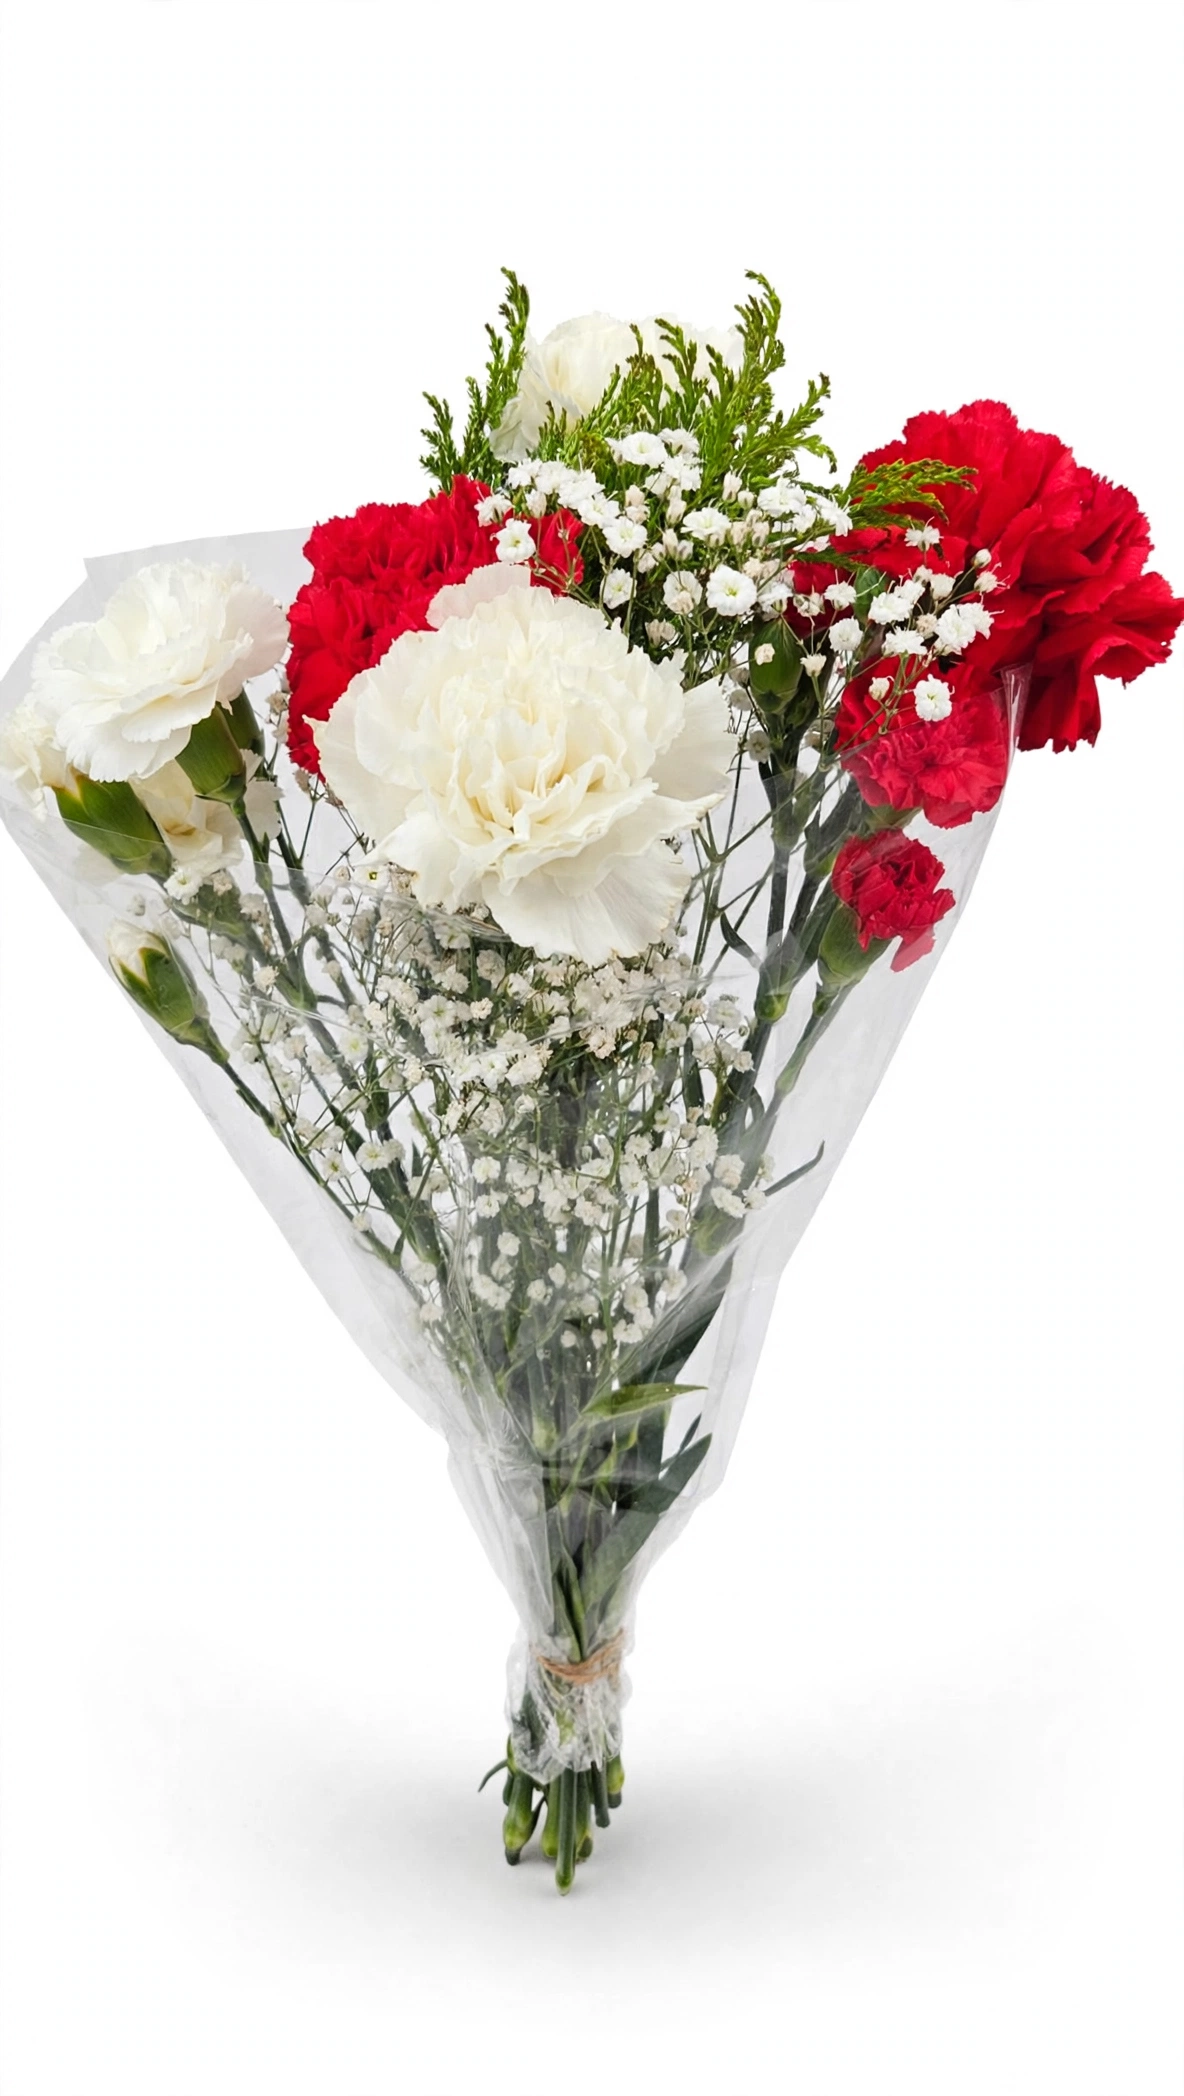
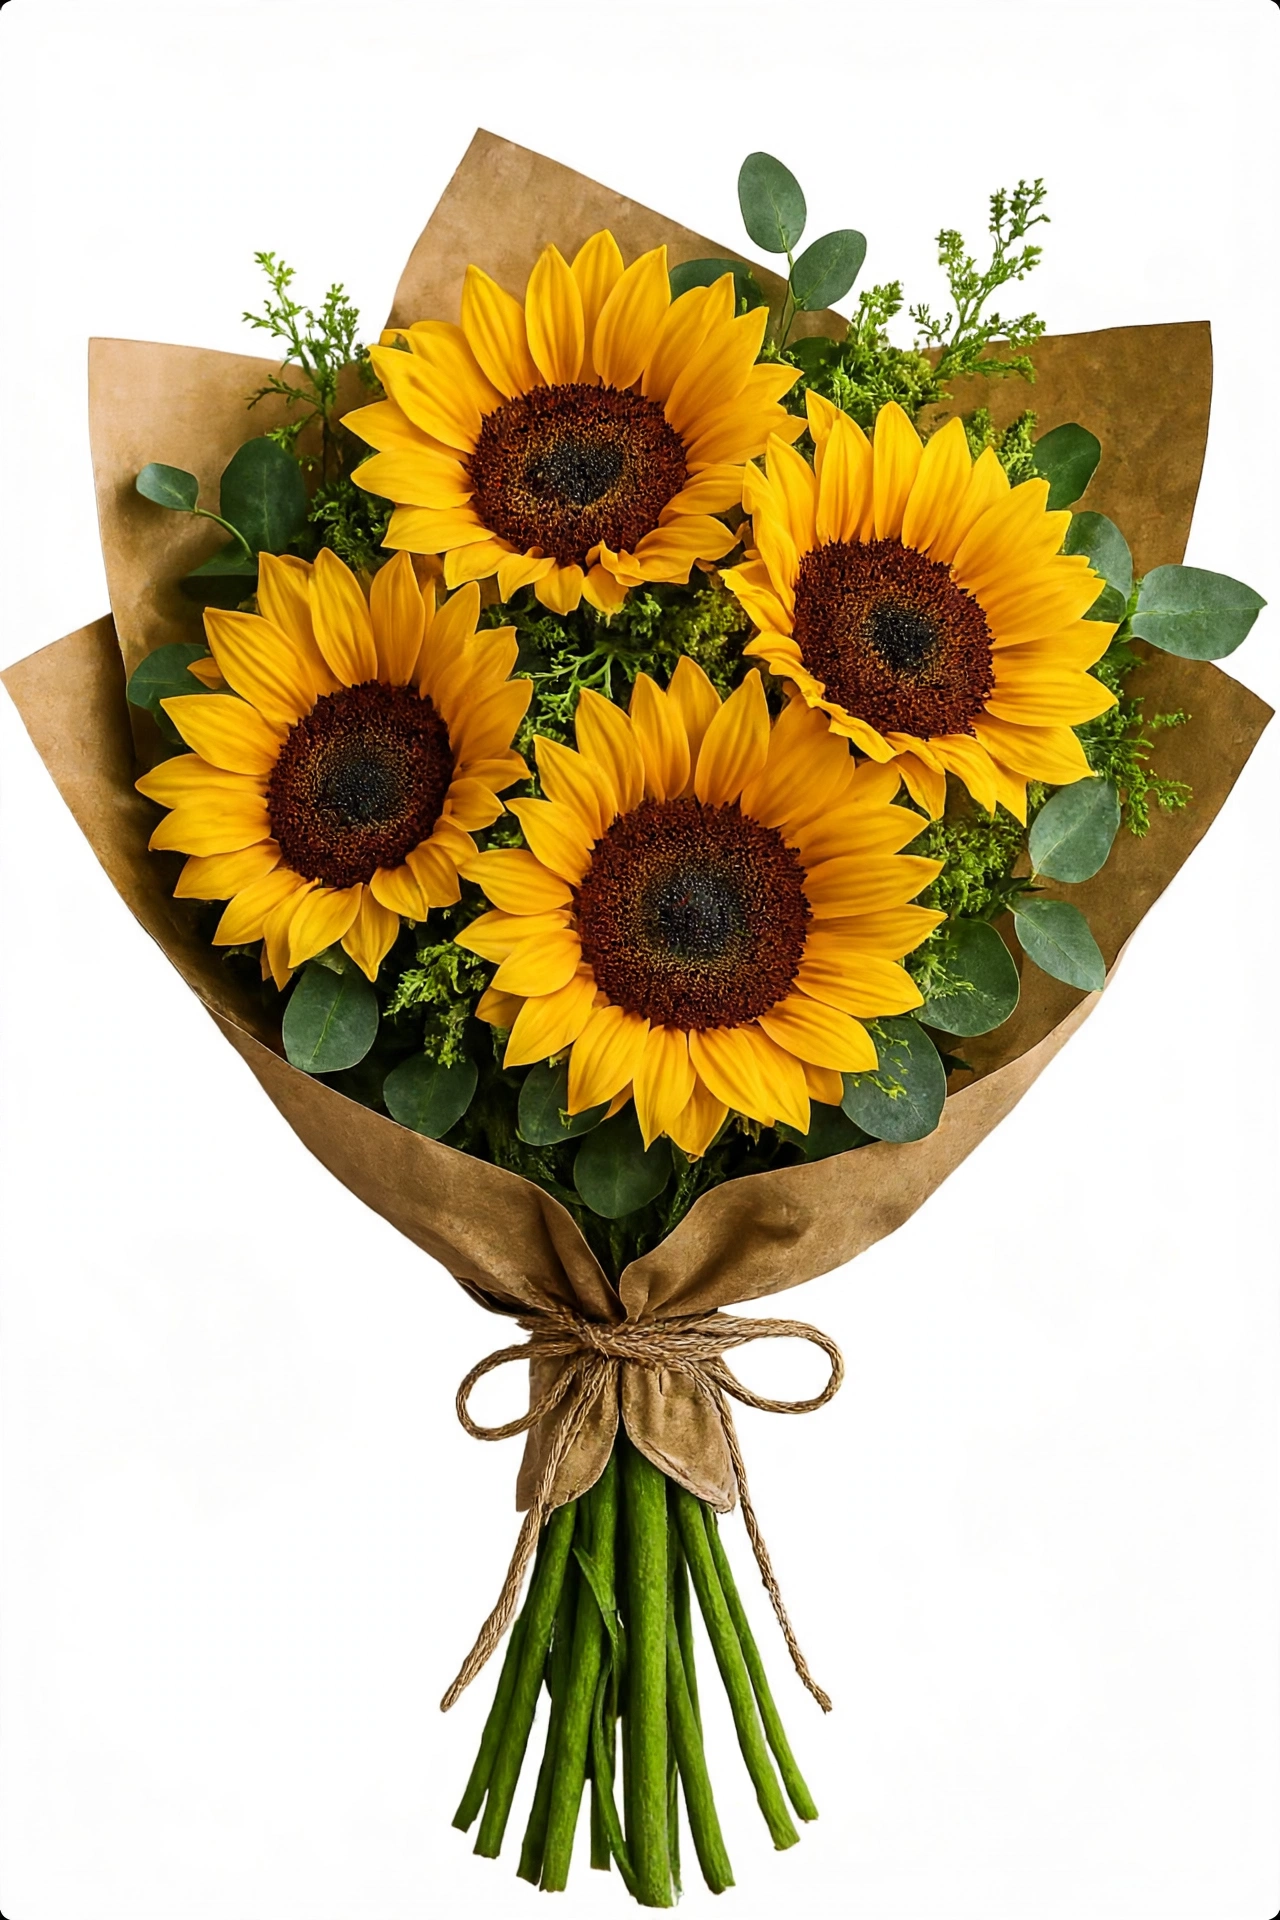
agrege fotos a flores amarillas

diff --git a/flores-amarillas.html b/flores-amarillas.html
@@ -45,6 +45,40 @@
         <p class="subtitulo-pagina">Elige el arreglo perfecto para regalar luz y energía.</p>
     </main>
 
+       <section class="barra-fotos-seccion">
+      <div class="contenedor-barra">
+        <!-- Caja 1 -->
+        <div class="tarjeta-foto">
+          <img src="img/flor5.jpg" alt="Flores" />
+          <div class="info-producto">
+            <h3>Ramo Lucia - 4 Girasoles</h3>
+            <p class="precio">$480</p>
+          </div>
+        </div>
+
+        <div class="tarjeta-foto">
+          <img src="img/flor6.jpg" alt="Flores"/>
+          <div class="info-producto">
+            <h3>Ramo Sol - Gerberas Amarillas</h3>
+            <p class="precio">$450</p>
+          </div>
+        </div>
+
+        <div class="tarjeta-foto">
+          <img src="img/flor7.jpg" alt="Flores"/>
+          <div class="info-producto">
+            <h3>Ramo Alegria - 3 Rosas Amarillas</h3>
+            <p class="precio">$250</p>
+          </div>
+        </div>
+
+        <div class="tarjeta-foto">
+          <img src="img/flor8.jpg" alt="Flores"/>
+          <div class="info-producto">
+            <h3>Ramo Luz - Lilys Amarillas</h3>
+            <p class="precio">$550</p>
+          </div>
+        </div>
 
        <!-- 🟢 ENLACE DE WHATSAPP FLOTANTE -->
     <a href="https://wa.me" class="btn-whatsapp" target="_blank" rel="noopener noreferrer">
